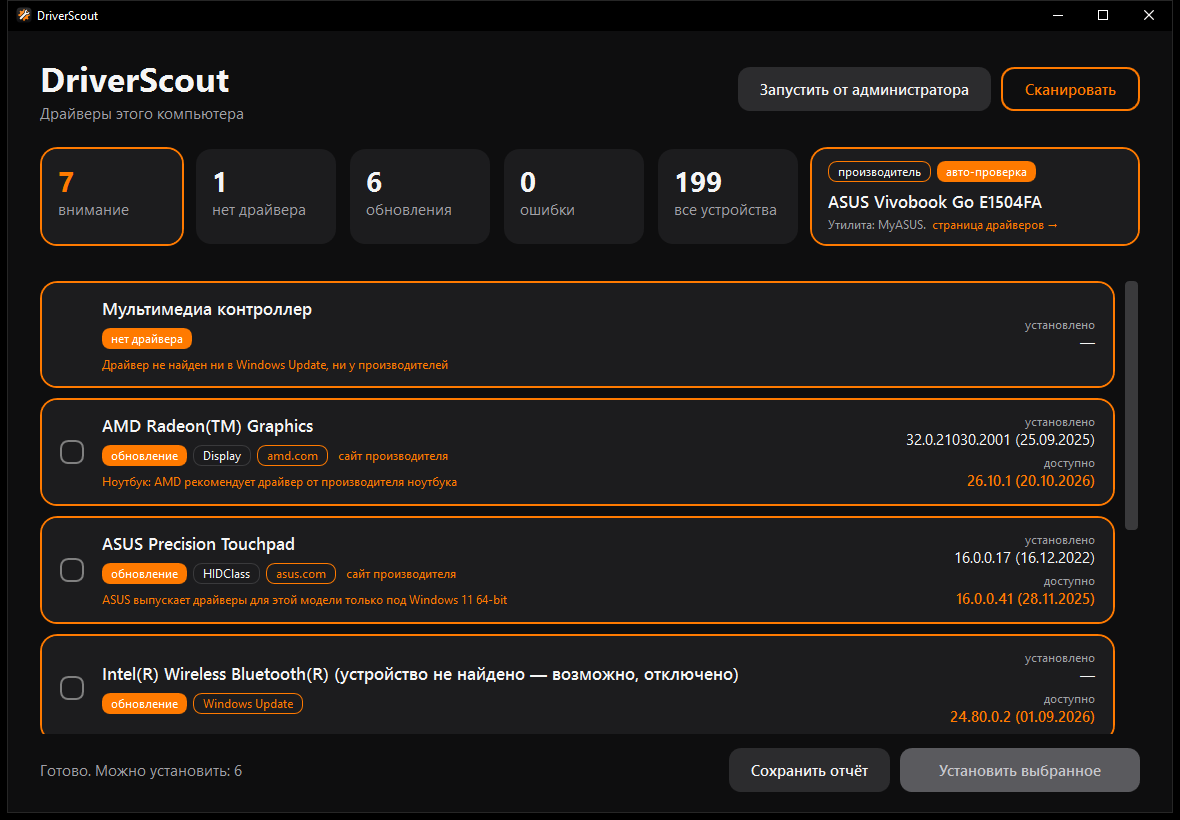
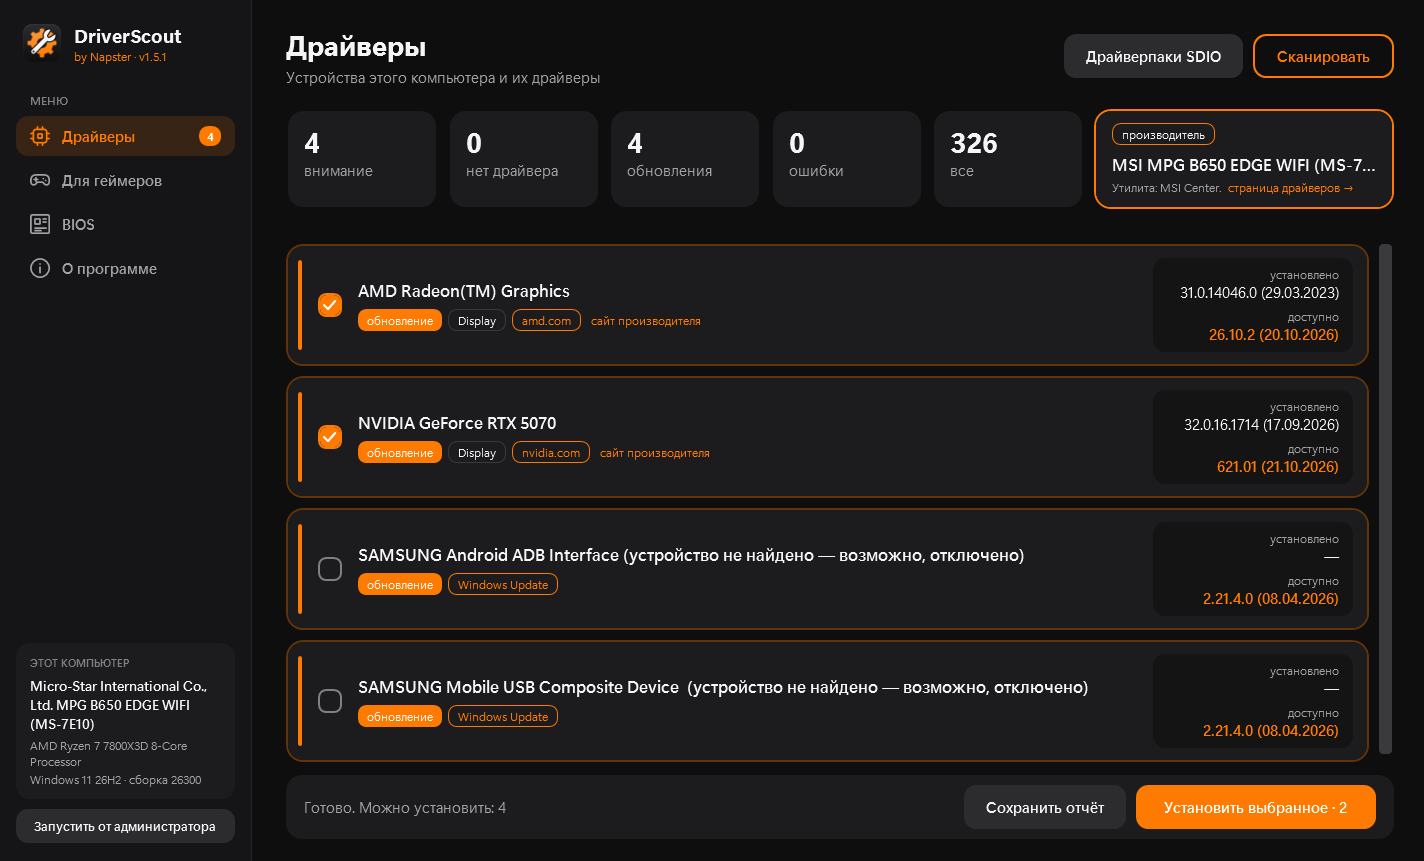
README: новые скриншоты 1.5.1, вкладки «Для геймеров» и BIOS, самообновление

diff --git a/README.md b/README.md
@@ -6,10 +6,13 @@
 
 <p align="center">
   Находит устройства без драйверов и устаревшие драйверы в Windows и ставит свежие версии —<br>
-  из Windows Update, с сайтов производителей и, по желанию, из драйверпаков Snappy Driver Installer Origin.
+  из Windows Update, с сайтов производителей и, по желанию, из драйверпаков Snappy Driver Installer Origin.<br>
+  А ещё ставит игровые программы в один клик, показывает версию BIOS и сам обновляется.
 </p>
 
 <p align="center">
+  <a href="https://github.com/NapsterFO/DriverScout/releases/latest"><img alt="Последняя версия" src="https://img.shields.io/github/v/release/NapsterFO/DriverScout?label=%D0%B2%D0%B5%D1%80%D1%81%D0%B8%D1%8F&color=FF7A00"></a>
+  <a href="https://github.com/NapsterFO/DriverScout/releases"><img alt="Скачиваний" src="https://img.shields.io/github/downloads/NapsterFO/DriverScout/total?label=%D1%81%D0%BA%D0%B0%D1%87%D0%B8%D0%B2%D0%B0%D0%BD%D0%B8%D0%B9&color=FF7A00"></a>
   <img alt="Windows 10/11" src="https://img.shields.io/badge/Windows-10%20%7C%2011-0078D4?logo=windows">
   <img alt=".NET 8" src="https://img.shields.io/badge/.NET-8-512BD4?logo=dotnet">
   <img alt="WPF" src="https://img.shields.io/badge/UI-WPF-FF7A00">
@@ -18,8 +21,25 @@
 </p>
 
 <p align="center">
-  <img src="docs/screenshot.png" width="820" alt="Окно DriverScout">
+  <a href="https://github.com/NapsterFO/DriverScout/releases/latest"><img alt="Скачать для Windows" src="https://img.shields.io/badge/%D0%A1%D0%BA%D0%B0%D1%87%D0%B0%D1%82%D1%8C-%D0%B4%D0%BB%D1%8F%20Windows-FF7A00?style=for-the-badge"></a>
 </p>
+
+<p align="center">
+  <img src="docs/screenshot.png" width="860" alt="Вкладка «Драйверы»">
+</p>
+
+## Скриншоты
+
+<table>
+  <tr>
+    <td width="50%"><img src="docs/gamer.png" alt="Вкладка «Для геймеров»"><br><sub><b>Для геймеров</b> — лаунчеры, мессенджеры, драйверы видеокарты и утилиты в один клик</sub></td>
+    <td width="50%"><img src="docs/gamer-utils.png" alt="Утилиты производителей"><br><sub><b>Утилиты производителей</b> — программа для вашей платы помечена «для вашего ПК»</sub></td>
+  </tr>
+  <tr>
+    <td width="50%"><img src="docs/bios.png" alt="Вкладка BIOS"><br><sub><b>BIOS</b> — установленная версия и что вышло у производителя</sub></td>
+    <td width="50%"><img src="docs/about.png" alt="О программе"><br><sub><b>О программе</b> — проверка обновлений DriverScout</sub></td>
+  </tr>
+</table>
 
 ## Возможности
 
@@ -36,6 +56,37 @@
   - проверка цифровой подписи производителя и SHA-256 каждого скачанного файла;
   - не предлагает «обновление», если установленная версия новее.
 - **Отчёт** о состоянии драйверов в текстовый файл.
+
+### Для геймеров
+
+24 программы для игрового компьютера ставятся прямо из DriverScout — без поиска установщиков по сайтам:
+
+| Раздел | Программы |
+|---|---|
+| От Napster | [Hidden Path](https://github.com/NapsterFO/HiddenPath) |
+| Лаунчеры | Steam, Epic Games, EA app, Ubisoft Connect, Battle.net |
+| Общение | Discord, TeamSpeak 3 |
+| Видеокарта | NVIDIA App, AMD Software: Adrenalin |
+| Утилиты производителей | MSI Center, ASUS Armoury Crate, GIGABYTE Control Center, MSI Afterburner |
+| Периферия | Logitech G HUB, Razer Synapse, SteelSeries GG, Corsair iCUE |
+| Мониторинг и запись | HWiNFO, CPU-Z, GPU-Z, OBS Studio |
+| Компоненты Windows | Visual C++ Redistributable, DirectX |
+
+- Уже установленные программы отмечаются, а подходящие именно вашему ПК (по видеокарте и материнской плате) — помечены «для вашего ПК».
+- Большинство программ ставится тихо через `winget` из официального репозитория Microsoft. NVIDIA App и AMD Adrenalin скачиваются с сайтов NVIDIA и AMD с проверкой цифровой подписи, Hidden Path — из GitHub-релиза с проверкой SHA-256.
+- Установки идут по очереди, прогресс виден на карточке программы.
+
+### BIOS
+
+- Показывает установленную версию BIOS, дату и плату.
+- Для **ASUS, Lenovo, Dell и HP** сам находит версии BIOS для вашей модели на сайте производителя и показывает, есть ли новее, с датой и ссылкой на скачивание.
+- Для MSI, Gigabyte, ASRock и других — открывает страницу BIOS вашей модели на сайте производителя.
+- DriverScout сам BIOS не прошивает: файл ставится утилитой производителя.
+
+### Обновление программы
+
+- При запуске DriverScout проверяет, не вышла ли новая версия на GitHub, и показывает карточку «Доступно обновление».
+- Обновление в один клик: установщик скачивается, сверяется по SHA-256 из релиза и ставится поверх, после чего программа перезапускается.
 
 ## Источники драйверов
 
@@ -55,8 +106,8 @@
 
 ## Установка
 
-Скачайте `DriverScout-Setup-<версия>.exe` из раздела **Releases** и запустите.
-Отдельно ставить .NET не нужно — среда выполнения уже внутри.
+Скачайте `DriverScout-Setup-<версия>.exe` из раздела [**Releases**](https://github.com/NapsterFO/DriverScout/releases/latest) и запустите.
+Отдельно ставить .NET не нужно — среда выполнения уже внутри. Дальше DriverScout обновляется сам.
 
 Требования: Windows 10 или 11 x64, интернет (кроме встроенных сетевых драйверов). Для установки драйверов нужны права администратора — программа попросит их сама.
 
@@ -65,6 +116,7 @@
 1. Запустите DriverScout — сканирование начнётся само (около минуты).
 2. Отметьте нужные обновления.
 3. Нажмите **«Установить выбранное»**. Драйверы из Windows Update ставятся автоматически, установщики производителей открываются в обычном режиме.
+4. На вкладке **«Для геймеров»** нажмите «Установить» у нужных программ, на вкладке **«BIOS»** — посмотрите, есть ли новая версия.
 
 Без окна, только отчёт:
 
@@ -117,8 +169,13 @@ DriverScout/
 ├─ VendorInstaller.cs       загрузка, проверка подписи и SHA-256, запуск установщика
 ├─ OemBrands.cs             справочник брендов ноутбуков
 ├─ ScanService.cs           сборка результатов и отчёт
+├─ UpdateCatalog.cs         поиск в каталоге Центра обновления Майкрософт
+├─ GameApps.cs              программы вкладки «Для геймеров» и их установка (winget, NVIDIA, AMD, GitHub)
+├─ BiosService.cs           версия BIOS и выпуски ASUS, Lenovo, Dell, HP
+├─ GitHubReleases.cs, AppUpdate.cs   релизы GitHub и самообновление DriverScout
 ├─ Sdi/                     драйверпаки SDIO: индексы, подбор, торрент, установка (порт кода SDIO)
-├─ MainWindow.xaml, Theme.xaml, ThemedDialog.xaml   интерфейс
+├─ MainWindow.xaml, GamerPage.xaml, BiosPage.xaml, Theme.xaml, ThemedDialog.xaml   интерфейс
+├─ Assets/apps/             иконки программ вкладки «Для геймеров»
 ├─ installer/               Inno Setup, build.ps1, sign.ps1
 └─ tools/IconGen.cs         генератор иконки
 ```
@@ -131,6 +188,8 @@ DriverScout/
 - Из каталога Microsoft берётся только первая страница результатов (25 самых свежих записей): если все они для более новой Windows, старый драйвер не найдётся.
 - Встроены только драйверы проводных сетевых карт; Wi-Fi-паки весят ~700 МБ и в установщик не входят.
 - Установщики производителей запускаются в интерактивном режиме, а не тихо.
+- BIOS автоматически проверяется только для ASUS, Lenovo, Dell и HP; для остальных — ссылка на страницу модели. Прошивать BIOS нужно утилитой производителя.
+- GIGABYTE Control Center нет в `winget` — для него открывается сайт производителя.
 - Только Windows x64.
 
 ## Лицензия
